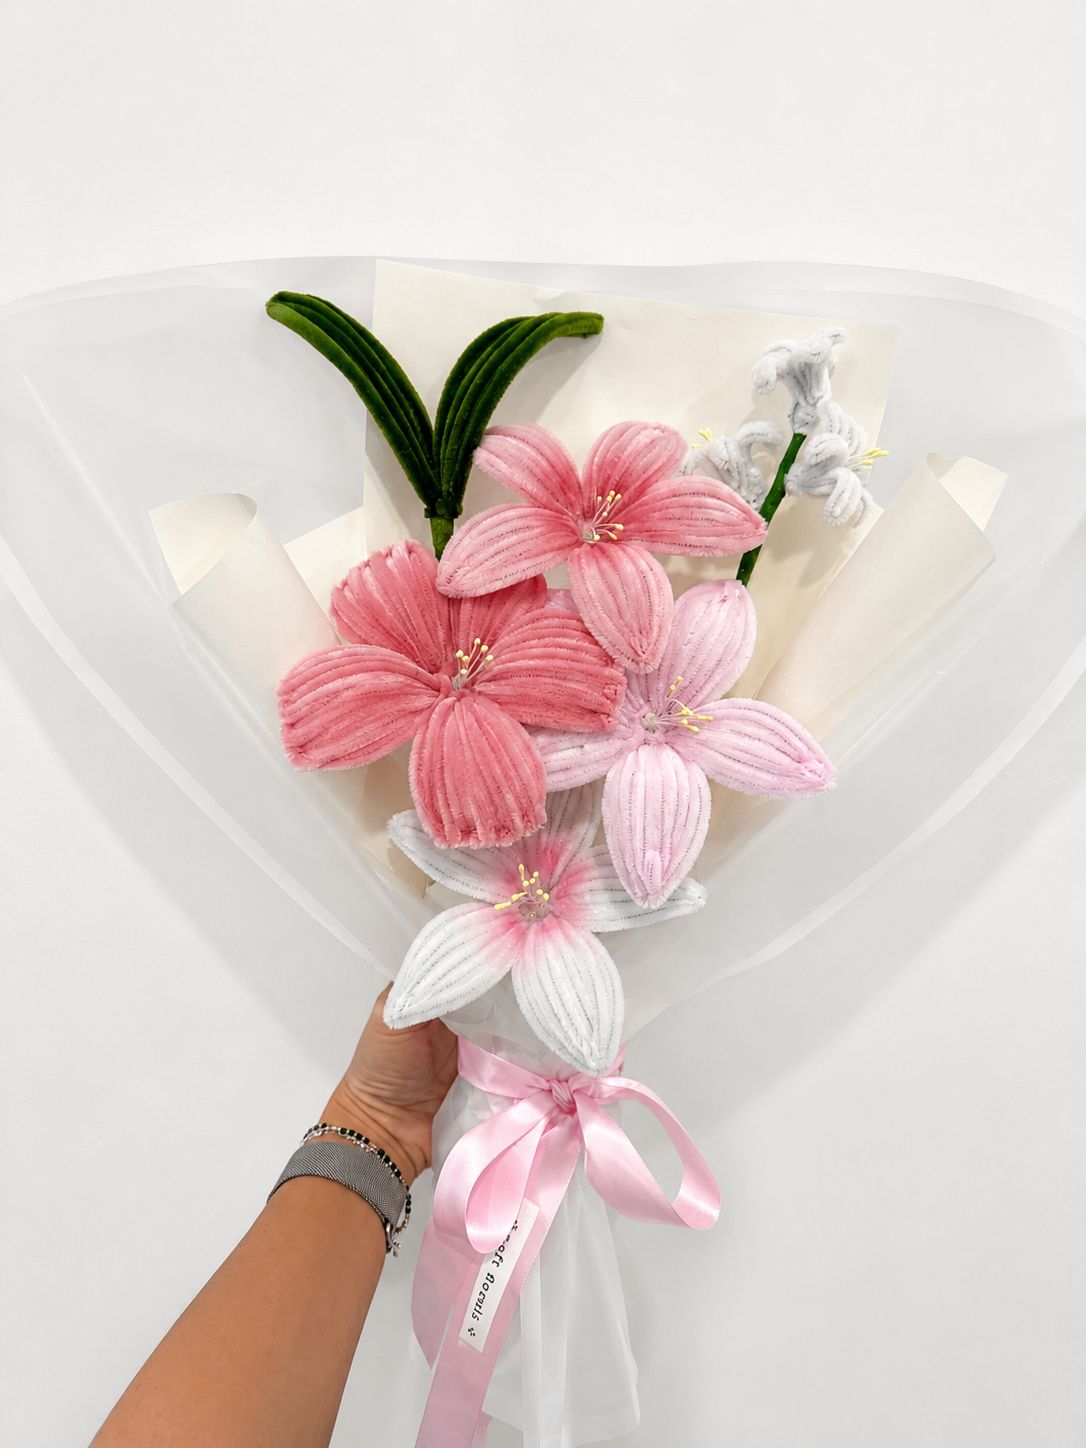
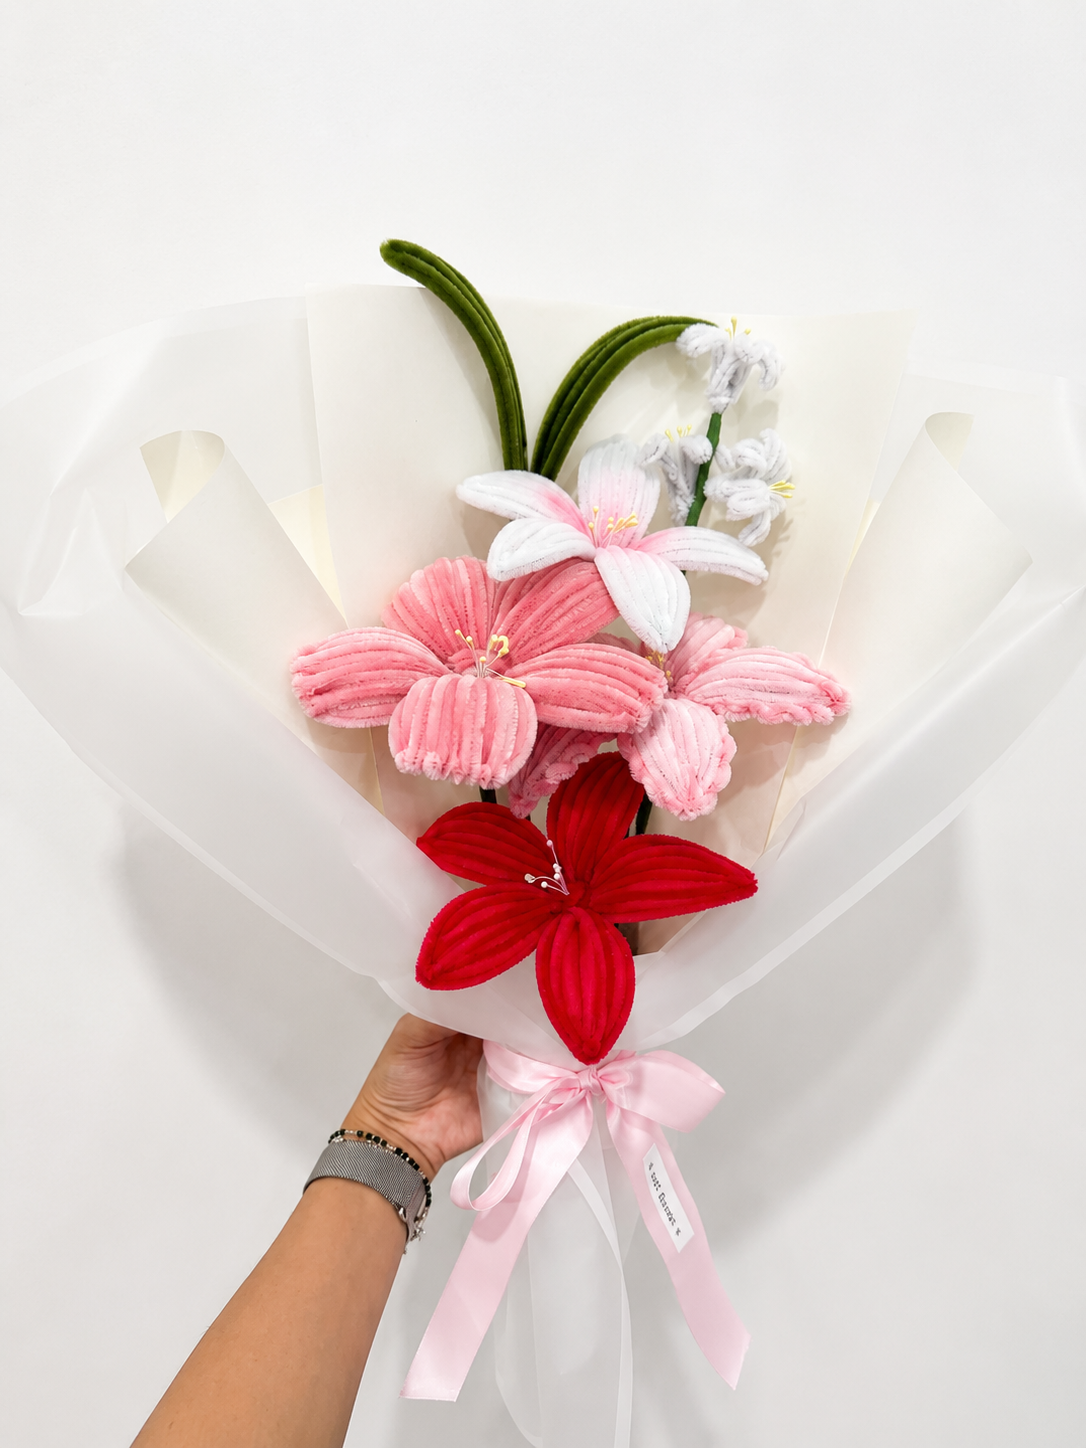
Rework purple/coral/pink bouquets
- Remove the unused Soft Purple alt photo
- Rename "Soft Coral" to "Soft Pink" (slug, name, image)
- Add a new "Soft Coral" bouquet with its own photo

diff --git a/src/content/products.js b/src/content/products.js
@@ -24,14 +24,23 @@ export const products = {
       category: 'Bouquets',
       price: 60,
       image: '/images/products/soft-purple.png',
-      images: [
-        '/images/products/soft-purple.png',
-        '/images/products/soft-purple-alt.png',
-      ],
+      images: ['/images/products/soft-purple.png'],
       hasPhoto: true,
       blurb: 'A dreamy lavender bouquet of lilies, tulips and a single deep-purple rose.',
       description:
         'A romantic bouquet in every shade of purple — hand-twisted lilac lilies and tulips, crisp white florals and one rich deep-purple rose at the centre, layered with greenery and wrapped in lavender tissue and a cloud of sheer tulle. Finished with a wide satin ribbon. Soft, considered and quietly luxurious.',
+    },
+    {
+      slug: 'soft-pink',
+      name: 'Soft Pink',
+      category: 'Bouquets',
+      price: 60,
+      image: '/images/products/soft-pink.png',
+      images: ['/images/products/soft-pink.png'],
+      hasPhoto: true,
+      blurb: 'A warm coral posy of hand-twisted lilies in blush, coral and crisp white.',
+      description:
+        'A soft bouquet in warm coral tones — hand-twisted lilies in blush and coral pink alongside a crisp white bloom, layered with greenery and wrapped in cream tissue and a cloud of sheer tulle. Finished with a pink satin ribbon. Sweet, warm and quietly luxurious.',
     },
     {
       slug: 'soft-coral',
@@ -41,9 +50,9 @@ export const products = {
       image: '/images/products/soft-coral.png',
       images: ['/images/products/soft-coral.png'],
       hasPhoto: true,
-      blurb: 'A warm coral posy of hand-twisted lilies in blush, coral and crisp white.',
+      blurb: 'A sweet posy of hand-twisted lilies in blush pink, crisp white and a pop of red.',
       description:
-        'A soft bouquet in warm coral tones — hand-twisted lilies in blush and coral pink alongside a crisp white bloom, layered with greenery and wrapped in cream tissue and a cloud of sheer tulle. Finished with a pink satin ribbon. Sweet, warm and quietly luxurious.',
+        'A playful little bouquet built around hand-twisted lilies — soft blush pink blooms, a crisp white flower and delicate lily-of-the-valley sprigs, with one bright red lily for a cheerful pop. Layered with greenery and wrapped in white tissue, then finished with a pink satin ribbon. Sweet, fresh and made entirely by hand.',
     },
     {
       slug: 'soft-pink-pop',